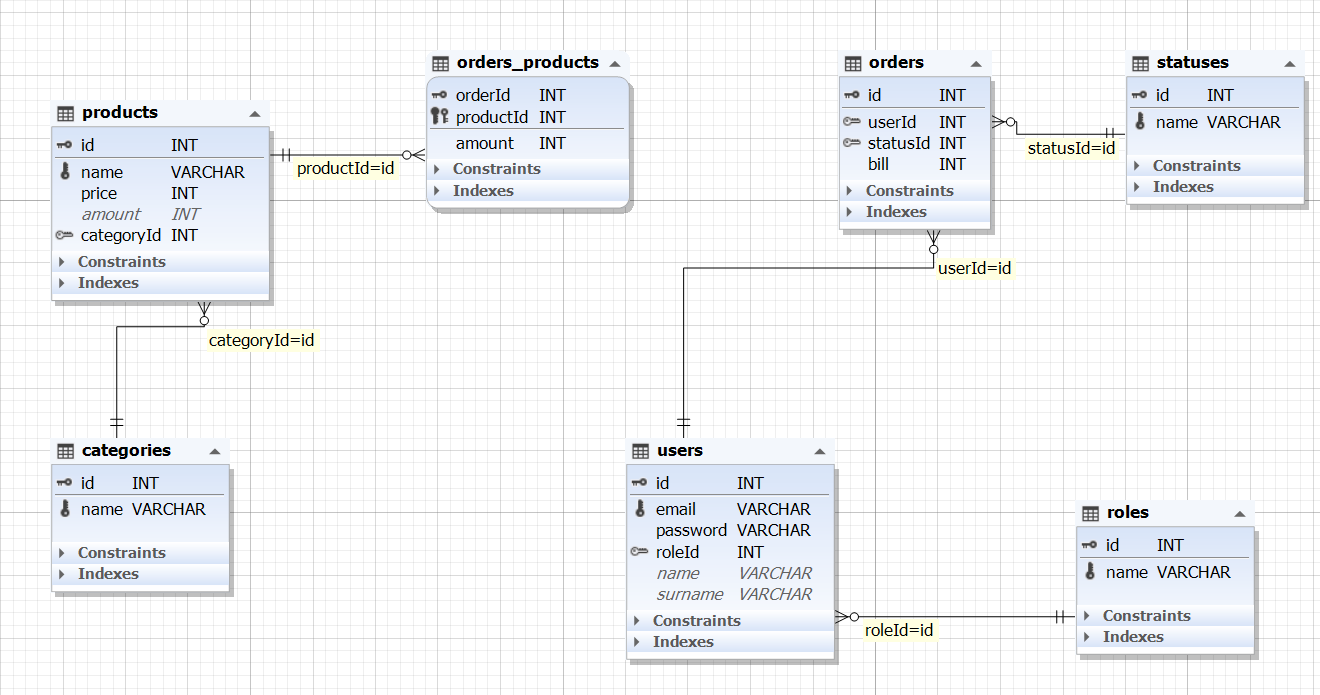
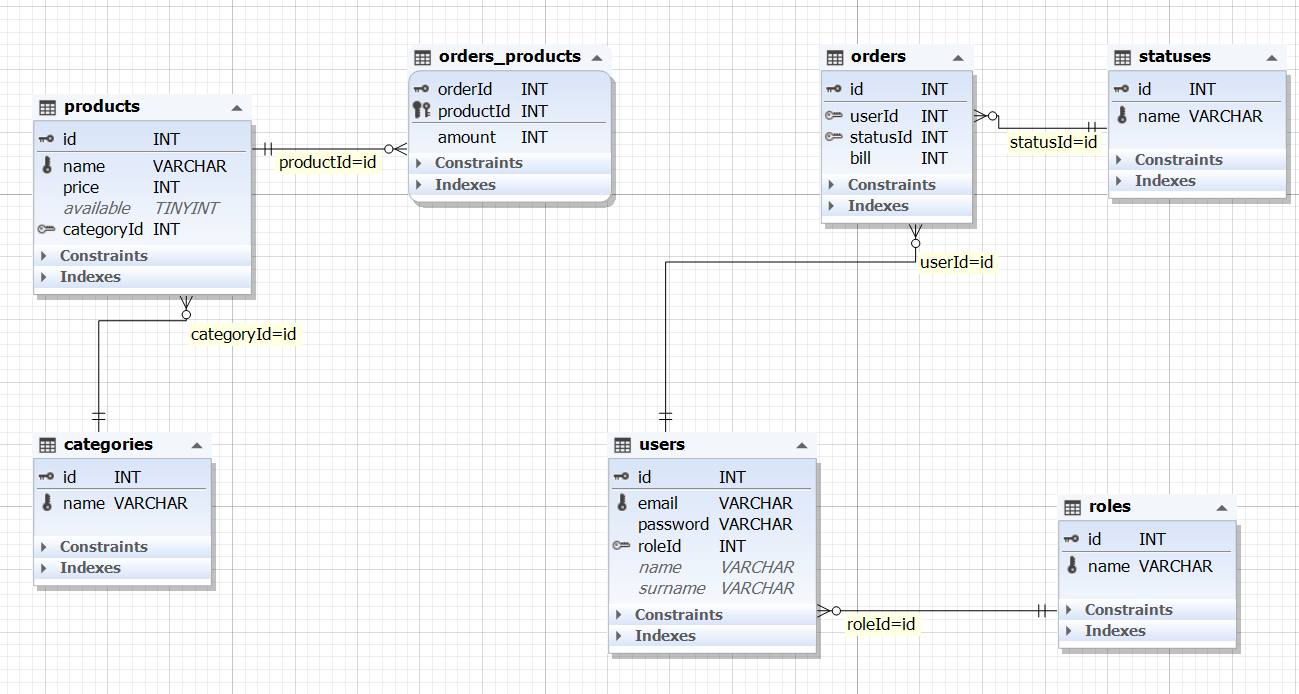
Admin can add products.

diff --git a/src/ua/nure/sharmenko/finaltask/servlets/AdminServlet.java b/src/ua/nure/sharmenko/finaltask/servlets/AdminServlet.java
@@ -1,0 +1,66 @@
+package ua.nure.sharmenko.finaltask.servlets;
+
+import org.apache.log4j.Logger;
+import ua.nure.sharmenko.finaltask.constants.Content;
+import ua.nure.sharmenko.finaltask.constants.Messages;
+import ua.nure.sharmenko.finaltask.database.DBManager;
+import ua.nure.sharmenko.finaltask.entities.db.Product;
+import ua.nure.sharmenko.finaltask.entities.db.User;
+
+import javax.servlet.ServletException;
+import javax.servlet.annotation.WebServlet;
+import javax.servlet.http.HttpServlet;
+import javax.servlet.http.HttpServletRequest;
+import javax.servlet.http.HttpServletResponse;
+import javax.servlet.http.HttpSession;
+import java.io.IOException;
+
+@WebServlet("/admin")
+public class AdminServlet extends HttpServlet {
+    private static final long serialVersionUID = 6296516575655714751L;
+    private static final Logger LOG = Logger.getLogger(AdminServlet.class);
+
+    @Override
+    protected void doGet(HttpServletRequest req, HttpServletResponse resp) throws ServletException, IOException {
+        HttpSession session = req.getSession();
+        User user = (User) session.getAttribute("user");
+        if (user == null || !"admin".equals(user.getRole())) {
+            super.doGet(req, resp);
+            return;
+        }
+        req.getSession().setAttribute("content", Content.ADMIN_CONTROL);
+        req.getRequestDispatcher("/mainPage").forward(req, resp);
+    }
+
+    @Override
+    protected void doPost(HttpServletRequest req, HttpServletResponse resp) throws ServletException, IOException {
+        HttpSession session = req.getSession();
+        User user = (User) session.getAttribute("user");
+        if (user == null || !"admin".equals(user.getRole())) {
+            super.doGet(req, resp);
+            return;
+        }
+
+        String result;
+        try {
+            LOG.debug("Try to create a new product.");
+            Product product = new Product();
+            product.setName(req.getParameter("name"));
+            product.setPrice(Integer.parseInt(req.getParameter("price")));
+            product.setAvailable(Boolean.parseBoolean(req.getParameter("available")));
+            product.setCategoryId(Integer.parseInt(req.getParameter("category")));
+            LOG.debug("Received product = " + product);
+
+            DBManager.getInstance().insertProduct(product);
+
+            result = Messages.SUCCESSFUL_ADD_PRODUCT;
+        } catch (Exception e) {
+            result = Messages.ERR_FAILED_ADD_PRODUCT;
+            LOG.error(e.getMessage());
+        }
+        LOG.error(result);
+
+        session.setAttribute("resultAddProduct", result);
+        resp.sendRedirect(req.getContextPath() + "/mainPage");
+    }
+}

diff --git a/src/ua/nure/sharmenko/finaltask/database/DBManager.java b/src/ua/nure/sharmenko/finaltask/database/DBManager.java
@@ -64,7 +64,7 @@ public final class DBManager {
             int i = 1;
             prepState.setString(i++, user.getEmail());
             prepState.setString(i++, user.getPassword());
-            prepState.setString(i++, Integer.toString(user.getRoleId()));
+            prepState.setInt(i++, user.getRoleId());
             prepState.setString(i++, user.getName());
             prepState.setString(i++, user.getSurname());
 
@@ -78,6 +78,37 @@ public final class DBManager {
         } catch (SQLException ex) {
             LOG.error(Messages.ERR_CANNOT_ADD_USER, ex);
             throw new DBException(Messages.ERR_CANNOT_ADD_USER, ex);
+        } finally {
+            close(con, prepState, null);
+        }
+    }
+
+    public void insertProduct(Product product) throws DBException {
+        LOG.debug("Try to insert product " + product + " to database.");
+        Connection con = null;
+        PreparedStatement prepState = null;
+
+        try {
+            con = getConnection();
+            prepState = con.prepareStatement(SqlQueries.SQL_INSERT_PRODUCT,
+                    Statement.RETURN_GENERATED_KEYS);
+
+            int i = 1;
+            prepState.setString(i++, product.getName());
+            prepState.setInt(i++, product.getPrice());
+            prepState.setBoolean(i++, product.getAvailable());
+            prepState.setLong(i++, product.getCategoryId());
+
+            if (prepState.executeUpdate() > 0) {
+                ResultSet rs = prepState.getGeneratedKeys();
+                if (rs.next()) {
+                    Long productId = rs.getLong(1);
+                    product.setId(productId);
+                }
+            }
+        } catch (SQLException ex) {
+            LOG.error(Messages.ERR_CANNOT_ADD_PRODUCT);
+            throw new DBException(Messages.ERR_CANNOT_ADD_PRODUCT, ex);
         } finally {
             close(con, prepState, null);
         }
@@ -288,7 +319,7 @@ public final class DBManager {
         product.setId(rs.getLong("id"));
         product.setName(rs.getString("name"));
         product.setPrice(rs.getInt("price"));
-        product.setAmount(rs.getInt("amount"));
+        product.setAvailable(rs.getBoolean("available"));
         product.setCategoryId(rs.getInt("categoryId"));
         return product;
     }

diff --git a/src/ua/nure/sharmenko/finaltask/entities/db/Product.java b/src/ua/nure/sharmenko/finaltask/entities/db/Product.java
@@ -5,7 +5,7 @@ public class Product extends Entity {
 
     private String name;
     private Integer price;
-    private Integer amount;
+    private Boolean available;
     private Integer categoryId;
 
     public Product() {
@@ -27,19 +27,29 @@ public class Product extends Entity {
         this.price = price;
     }
 
-    public Integer getAmount() {
-        return amount;
-    }
-
-    public void setAmount(Integer amount) {
-        this.amount = amount;
-    }
-
     public Integer getCategoryId() {
         return categoryId;
     }
 
     public void setCategoryId(Integer categoryId) {
         this.categoryId = categoryId;
+    }
+
+    public Boolean getAvailable() {
+        return available;
+    }
+
+    public void setAvailable(Boolean available) {
+        this.available = available;
+    }
+
+    @Override
+    public String toString() {
+        return "Product{" +
+                "name='" + name + '\'' +
+                ", price=" + price +
+                ", available=" + available +
+                ", categoryId=" + categoryId +
+                '}';
     }
 }

diff --git a/src/ua/nure/sharmenko/finaltask/constants/Messages.java b/src/ua/nure/sharmenko/finaltask/constants/Messages.java
@@ -18,6 +18,8 @@ public final class Messages {
 
     public static final String ERR_CANNOT_ADD_USER = "A user with this email already exists.";
 
+    public static final String ERR_CANNOT_ADD_PRODUCT = "Cannot add product to database.";
+
     public static final String ERR_CANNOT_OBTAIN_CONNECTION = "Cannot obtain a connection from the pool.";
 
     public static final String ERR_LOGIN_OR_PASSWORD_EMPTY = "Login/password cannot be empty.";
@@ -37,4 +39,8 @@ public final class Messages {
     public static final String SUCCESSFUL_PLACE_ORDER = "The order is placed successfully. Thank you for your purchase!";
 
     public static final String ERR_CANNOT_SELECT_ORDERS = "Sorry, an error occurred while selecting your orders.";
+
+    public static final String ERR_FAILED_ADD_PRODUCT = "Failed to add product.";
+
+    public static final String SUCCESSFUL_ADD_PRODUCT = "Product added successfully.";
 }

diff --git a/src/ua/nure/sharmenko/finaltask/servlets/LogoutServlet.java b/src/ua/nure/sharmenko/finaltask/servlets/LogoutServlet.java
@@ -1,6 +1,7 @@
 package ua.nure.sharmenko.finaltask.servlets;
 
 import org.apache.log4j.Logger;
+import ua.nure.sharmenko.finaltask.constants.Content;
 
 import javax.servlet.RequestDispatcher;
 import javax.servlet.ServletException;
@@ -21,6 +22,12 @@ public class LogoutServlet extends HttpServlet {
         HttpSession session = req.getSession();
         LOG.debug("Remove attribute from session");
         session.removeAttribute("user");
+
+        String content = (String) session.getAttribute("content");
+        if(Content.ADMIN_CONTROL.equals(content))
+        {
+            session.setAttribute("content", Content.PRODUCTS_CONTENT);
+        }
 
         RequestDispatcher requestDispatcher = req.getRequestDispatcher("/mainPage");
         requestDispatcher.forward(req, resp);

diff --git a/src/ua/nure/sharmenko/finaltask/database/SqlQueries.java b/src/ua/nure/sharmenko/finaltask/database/SqlQueries.java
@@ -8,6 +8,7 @@ public final class SqlQueries {
      * SQL queries
      */
     public static final String SQL_INSERT_USER = "INSERT INTO users VALUES (DEFAULT, ?, ?, ?, ?, ?)";
+    public static final String SQL_INSERT_PRODUCT = "INSERT INTO products VALUES (DEFAULT, ?, ?, ?, ?)";
     public static final String SQL_SELECT_USER_BY_EMAIL = "SELECT * FROM users WHERE email=?";
     public static final String SQL_SELECT_PRODUCTS_BY_CATEGORY = "SELECT * FROM products WHERE categoryId=?";
     public static final String SQL_SELECT_ALL_CATEGORIES = "SELECT * FROM categories";

diff --git a/src/ua/nure/sharmenko/finaltask/constants/Content.java b/src/ua/nure/sharmenko/finaltask/constants/Content.java
@@ -7,6 +7,11 @@ public final class Content {
     public static final String BASKET = "basket";
     public static final String PLACE_ORDER_RESULT_CONTENT = "placeOrderResultContext";
     public static final String PROFILE = "profile";
+    public static final String ADMIN_CONTROL = "admin";
+
+    public String getAdminControl() {
+        return ADMIN_CONTROL;
+    }
 
     public String getPROFILE() {
         return PROFILE;

diff --git a/src/ua/nure/sharmenko/finaltask/entities/db/Role.java b/src/ua/nure/sharmenko/finaltask/entities/db/Role.java
@@ -3,9 +3,8 @@ package ua.nure.sharmenko.finaltask.entities.db;
 public enum Role {
     CLIENT, ADMIN;
 
-    public static Role getUserRole(User user) {
-        int roleId = user.getRoleId();
-        return Role.values()[roleId];
+    public static Role getUserRole(long roleId) {
+        return Role.values()[(int) roleId];
     }
 
     public String getName() {

diff --git a/src/ua/nure/sharmenko/finaltask/servlets/ProfileServlet.java b/src/ua/nure/sharmenko/finaltask/servlets/ProfileServlet.java
@@ -14,7 +14,6 @@ import javax.servlet.http.HttpServletRequest;
 import javax.servlet.http.HttpServletResponse;
 import javax.servlet.http.HttpSession;
 import java.io.IOException;
-import java.util.Comparator;
 import java.util.List;
 
 @WebServlet("/profile")

diff --git a/src/ua/nure/sharmenko/finaltask/servlets/BasketServlet.java b/src/ua/nure/sharmenko/finaltask/servlets/BasketServlet.java
@@ -63,6 +63,6 @@ public class BasketServlet extends HttpServlet {
         }
 
         session.setAttribute("content", Content.BASKET);
-        resp.sendRedirect("/mainPage");
+        resp.sendRedirect(req.getContextPath() + "/mainPage");
     }
 }

diff --git a/src/ua/nure/sharmenko/finaltask/entities/db/User.java b/src/ua/nure/sharmenko/finaltask/entities/db/User.java
@@ -64,6 +64,10 @@ public class User extends Entity {
         this.roleId = roleId;
     }
 
+    public String getRole() {
+        return Role.getUserRole(roleId).getName();
+    }
+
     public String getName() {
         return name;
     }

diff --git a/src/ua/nure/sharmenko/finaltask/servlets/MainPageServlet.java b/src/ua/nure/sharmenko/finaltask/servlets/MainPageServlet.java
@@ -42,8 +42,5 @@ public class MainPageServlet extends HttpServlet {
         } else {
             req.getRequestDispatcher(Path.MAIN_PAGE).forward(req, resp);
         }
-
-        System.out.println(Status.class.getName());
-
     }
 }
